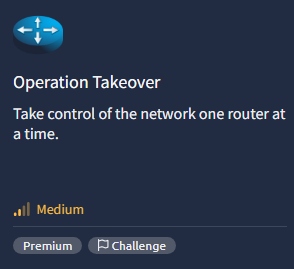
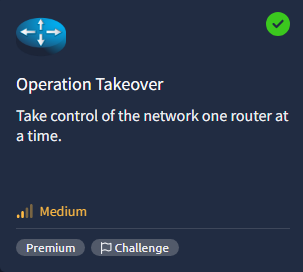
Fix Operation Takeover room card

diff --git a/_posts/2026-08-01-tryhackme-operation-takeover.md b/_posts/2026-08-01-tryhackme-operation-takeover.md
@@ -27,7 +27,7 @@ comments: false
 > Passwords, hashes, target addresses, and TryHackMe flags are redacted.
 {: .prompt-warning }
 
-[![TryHackMe Operation Takeover room card](room_card.webp){: w="294" h="269" .shadow }](https://tryhackme.com/room/operationtakeover)
+[![TryHackMe Operation Takeover room card](room_card.webp){: w="303" h="272" .shadow }](https://tryhackme.com/room/operationtakeover)
 
 ## Initial Enumeration
 
